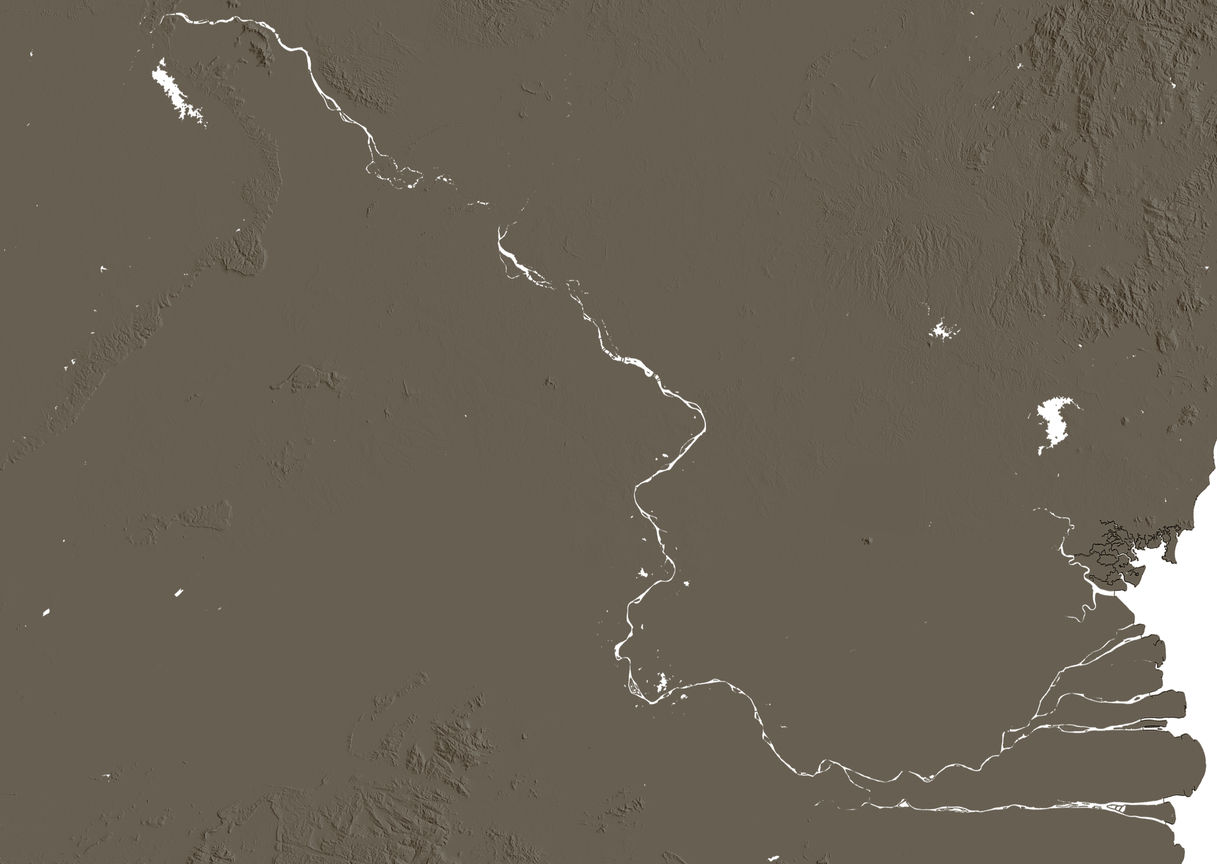
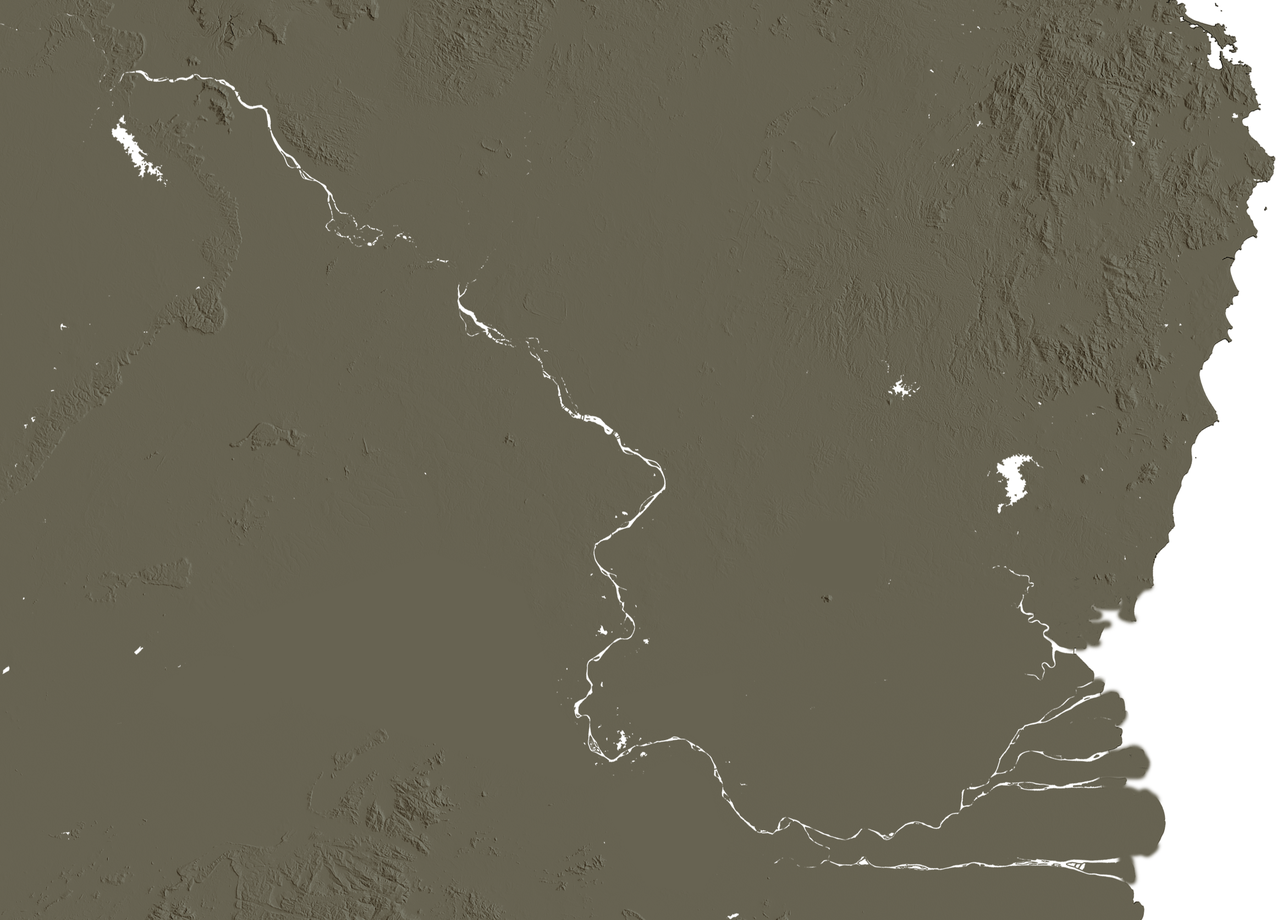
new header

diff --git a/src/css/header.scss b/src/css/header.scss
@@ -1,6 +1,6 @@
 @media(min-width: breakpoints(tablet)){
     #header-wrapper{
-        background:#665E51;
+        background:#665C50;
         width:auto;
         margin:0 -20px;
         min-height:740px;
@@ -13,7 +13,7 @@
         	z-index: 1;
             margin-left:80px;
         	img{
-        		width:105%;
+        		width:115%;
                 margin-left:0;
         	}
         }

diff --git a/src/html/layout-desktop.html b/src/html/layout-desktop.html
@@ -3,7 +3,7 @@
 
 	<div id="header-wrapper">
 		<div class="header-image-container">
-			<img src="/imgs/river-mask.png" />
+			<img src="/imgs/mekong.png" />
 		</div>
 		<div class="header-inner">
 			<h1>Tales <span id="title-break-1">of the</span> river <span id="title-break-2">bank</span></h1>

diff --git a/src/css/main.scss b/src/css/main.scss
@@ -11,7 +11,7 @@
 body {
     margin: 0;
     padding: 0;
-    background:#665E51;
+    background:#665C50;
     transition:background 1s;
 }
 
